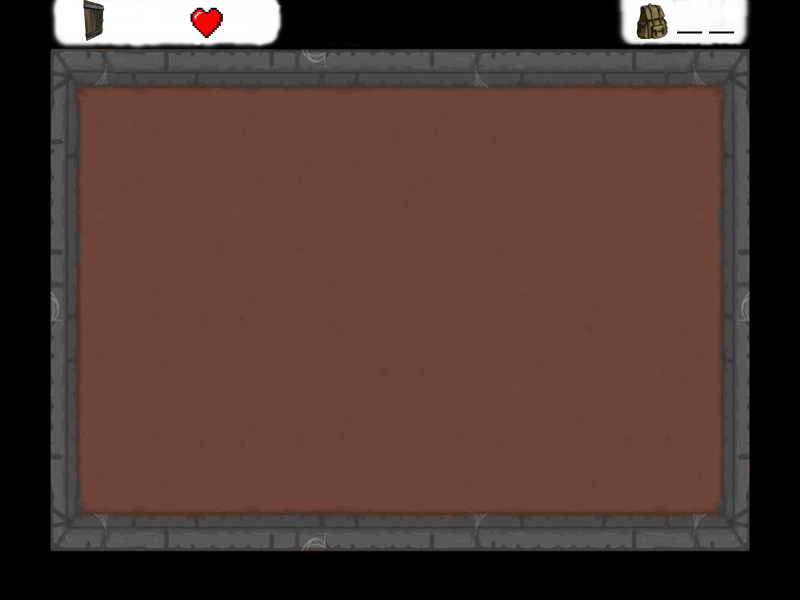
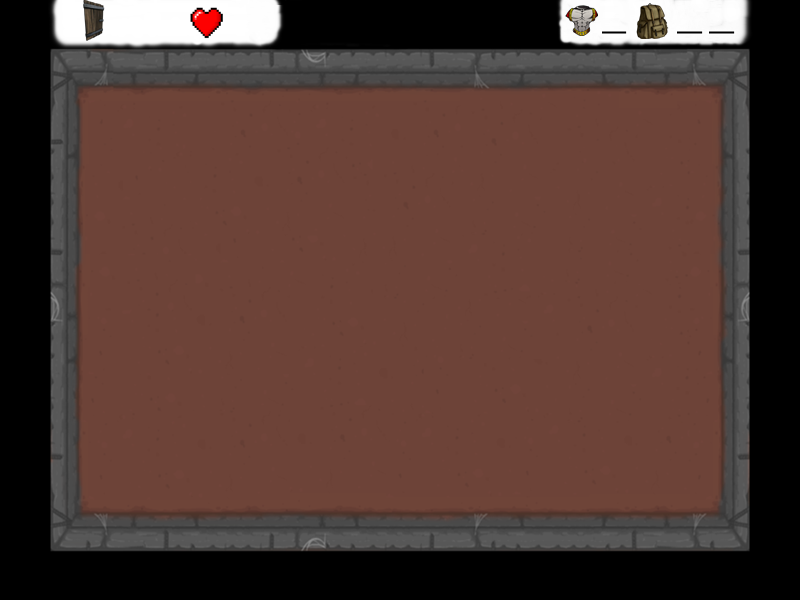
Finalização do projeto
Adicionado nova classe de Armadura e imagens.

Changed region(s): [[0.6875, 0.0, 0.7812, 0.09]]

diff --git a/src/Room.java b/src/Room.java
@@ -7,7 +7,9 @@ public class Room {
 	String room, east, west, north, south, down, up;
 	Door doorEast, doorWest, doorNorth, doorSouth, doorDown, doorUp;
 	Enemy enemy;
+	Iten key = null;
 	Iten iten = null;
+	Armor armor = null;
 	Image fundo;
 	
 	public Room ( String room, String east, String west, String north, String south, String down, String up){
@@ -21,6 +23,7 @@ public class Room {
 		AddImg();
 		criaSala();
 		criaInimigo();
+		randomMapIten();
 	}
 	
 	public void criaSala(){
@@ -56,6 +59,54 @@ public class Room {
 		}
 		if (numb == 2){
 			this.enemy = new Enemy("troll");
+		}
+	}
+	
+	public void randomMapIten(){
+		int numb = (int) (Math.random() * 2);
+		
+		if (numb == 0 ){
+			criaIten();
+		}
+		if (numb == 1){
+			
+		}
+	}
+	
+	public void randomArmor(){
+		int numb = (int) (Math.random() * 3);
+		
+		if (numb == 0){
+			this.armor = new Armor("couro");
+		}
+		if (numb == 1){
+			this.armor = new Armor("metal");
+		}
+		if (numb == 2){
+			this.armor = new Armor("mithril");
+		}
+	}
+	
+	public void criaIten(){
+		int numb = (int) (Math.random() * 6);
+		
+		if (numb == 0){
+			this.iten = new Iten("dagger");
+		}
+		if (numb == 1){
+			this.iten = new Iten("shield");
+		}
+		if (numb == 2){
+			randomArmor();
+		}
+		if (numb == 3){
+			this.iten = new Iten("longSword");
+		}
+		if (numb == 4){
+			this.iten = new Iten("knife");
+		}
+		if (numb == 5){
+			this.iten = new Iten("sword");
 		}
 	}
 	

diff --git a/src/Armor.java b/src/Armor.java
@@ -1,0 +1,41 @@
+import java.io.IOException;
+
+import com.senac.SimpleJava.Graphics.Image;
+
+public class Armor {
+
+	Image img;
+	String name;
+	double armor = 0;
+	
+	
+	public Armor (String armor){
+		addImg(armor);
+		addAttributes(armor);
+	}
+	
+	public Image addImg(String imgArmor){
+		try {
+			 this.img = new Image("img/"+imgArmor+".png");
+		} catch (IOException e) {
+			e.printStackTrace();
+		}
+		return img;
+	}
+	
+	public void addAttributes(String iten ){
+		if (iten == "couro"){
+			this.name = iten;
+			this.armor = 2;
+		}
+		if (iten == "metal"){
+			this.name = iten;
+			this.armor = 3;
+		}
+		if (iten == "mithril"){
+			this.name = iten;
+			this.armor = 5;
+		}
+	}
+	
+}

diff --git a/src/Warrior.java b/src/Warrior.java
@@ -10,6 +10,7 @@ public class Warrior  {
 	int damage = 2;
 	int chance = 75;
 	Inventory inventory = new Inventory();
+	Armor armor;
 	
 	
 	public Warrior(){
